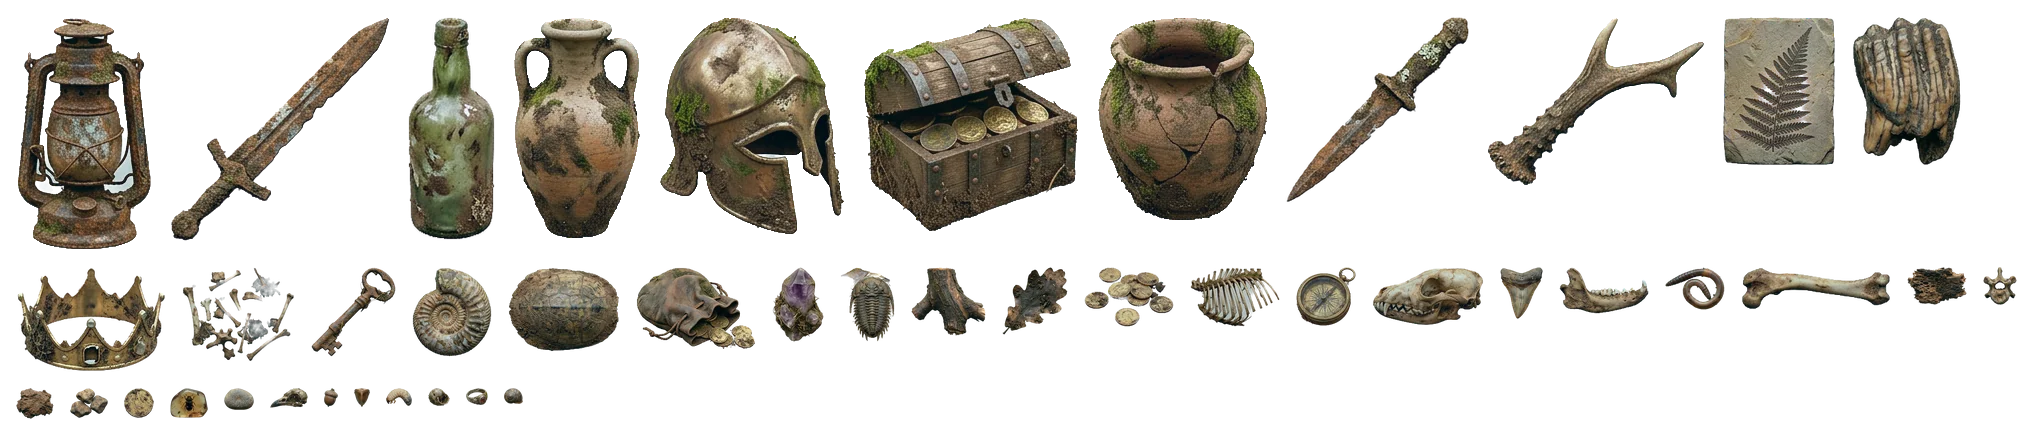
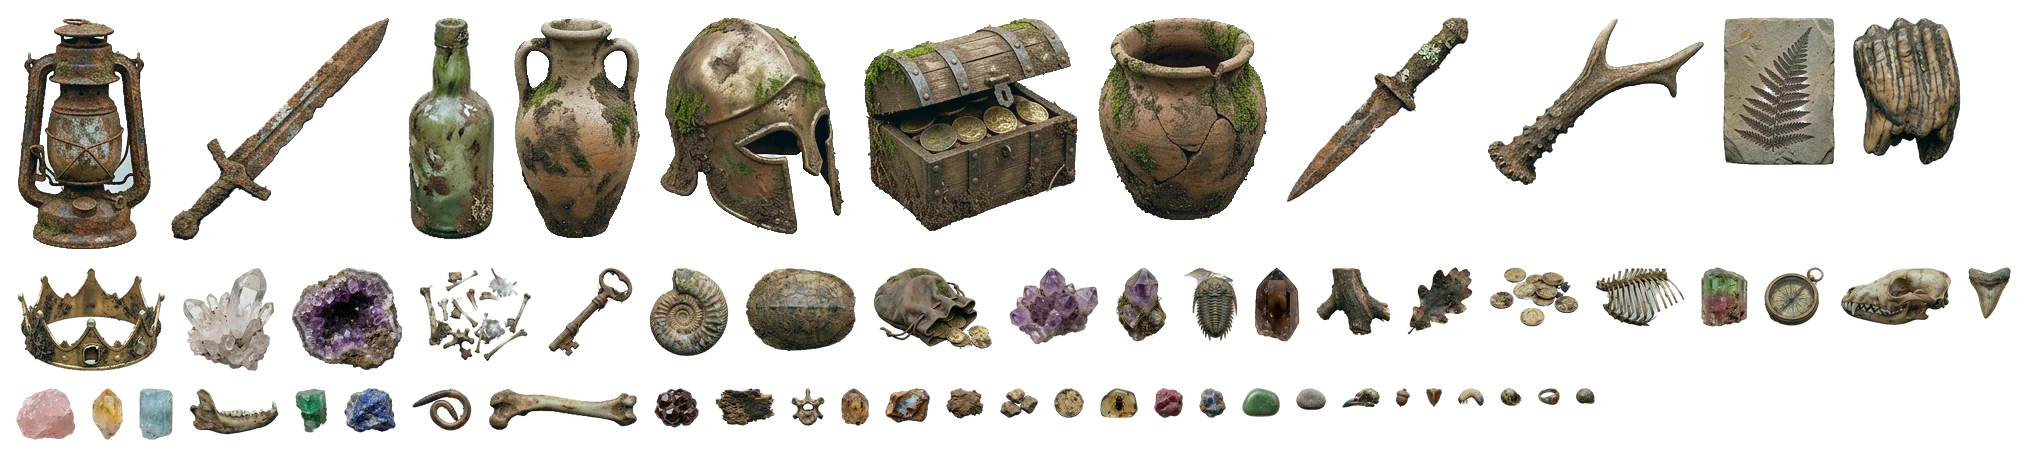
MYCELIUM_ gems: the crystals sheet joins the treasure, every gem as likely as any treasure piece, less stained and shaded so its colour shows deep down too, with an occasional glint

Changed region(s): [[0.0, 0.0298, 0.9941, 0.9839], [0.7145, 0.0298, 0.963, 0.4174]]

diff --git a/src/modes/mycelium/render.ts b/src/modes/mycelium/render.ts
@@ -11,7 +11,7 @@
 import { ATLASES } from './assets';
 import type { Assets, AtlasKey } from './assets';
 import { atlases, frames } from './assets/manifest.json';
-import { BURIED_MAX, TREASURE_MAX, isTreasure } from './buried';
+import { BURIED_MAX, TREASURE_MAX, isGem, isTreasure } from './buried';
 import type { Buried } from './buried';
 import { WORLD, heightAt, mixGround, mossAt, ridgeAt } from './ground';
 import type { Ground } from './ground';
@@ -80,8 +80,12 @@ const ZOOM = [0.5, 4] as const;
 /** a buried thing's quad reaches this many texels past its picture: room for its blurred shadow (the atlases leave
  * 16 texels between pictures, and the shadow's mip level reads about 4 further, so no neighbour bleeds in) */
 const PAD = 6;
-/** floats per buried vertex: position, uv, depth, the picture's rect in its atlas, the halo's reach */
-const BURIED_STRIDE = 10;
+/** floats per buried vertex: position, uv, depth, the picture's rect in its atlas, the halo's reach, gem or not */
+const BURIED_STRIDE = 11;
+/** how much soil stains a gem's picture (other things: fully), and how bright it is (other things: BURIED_DIM): its
+ * colour is the find, so it stands out of the soil a little, deep down too */
+const GEM_STAIN = 0.25;
+const GEM_LIGHT = 0.9;
 /** how dark a buried thing's shadow is, and how far below it it falls (view units: light comes from above) */
 const SHADOW = 0.55;
 const SHADOW_DROP = 3;
@@ -94,7 +98,7 @@ const HALO_DARK = 0.5;
 /** buried things lie out of the sun, in the soil's shade */
 const BURIED_DIM = 0.8;
 /** the passes of buried.frag */
-const PASS = { picture: 0, shadow: 1, halo: 2 } as const;
+const PASS = { picture: 0, shadow: 1, halo: 2, glint: 3 } as const;
 
 /** The air. Neutral daylight for now; the assets carry no mood of their own, so this is where it will change. */
 const AIR = {
@@ -329,7 +333,7 @@ export class ForestRenderer {
     gl.bufferData(gl.ELEMENT_ARRAY_BUFFER, new Uint16Array([...band, ...body]), gl.STATIC_DRAW);
     gl.bindVertexArray(null);
     // what lies buried: a quad per thing (two triangles), then one per treasure's halo; pos xy, uv, depth, the
-    // picture's rect in its atlas, how far the halo reaches (texels)
+    // picture's rect in its atlas, how far the halo reaches (texels), 1 for a gem (less stained; glints)
     this.buried = program(gl, BURIED_VS, BURIED_FS);
     this.buriedVao = gl.createVertexArray();
     this.buriedVbo = gl.createBuffer();
@@ -347,6 +351,8 @@ export class ForestRenderer {
     gl.vertexAttribPointer(3, 4, gl.FLOAT, false, BB, 20);
     gl.enableVertexAttribArray(4);
     gl.vertexAttribPointer(4, 1, gl.FLOAT, false, BB, 36);
+    gl.enableVertexAttribArray(5);
+    gl.vertexAttribPointer(5, 1, gl.FLOAT, false, BB, 40);
     // corners: top left, top right, bottom left, bottom right
     const quads = BURIED_MAX + TREASURE_MAX;
     const bidx = new Uint16Array(quads * 6);
@@ -573,6 +579,7 @@ export class ForestRenderer {
       v[o++] = (f.x + f.w) / A.w;
       v[o++] = (f.y + f.h) / A.h;
       v[o++] = reach;
+      v[o++] = isGem(b.frame) ? 1 : 0;
     }
     return o;
   }
@@ -708,16 +715,21 @@ export class ForestRenderer {
     gl.uniform2f(bu.u.uDrift!, ...g.drift);
     gl.uniform3f(bu.u.uTint!, ...AIR.tint);
     gl.uniform3f(bu.u.uDeep!, ...AIR.deep);
+    gl.uniform1f(bu.u.uGemStain!, GEM_STAIN);
+    gl.uniform1f(bu.u.uGemLight!, GEM_LIGHT);
+    gl.uniform1f(bu.u.uTime!, this.time);
     gl.activeTexture(gl.TEXTURE0);
     gl.uniform1i(bu.u.uAtlas!, 0);
     gl.bindVertexArray(this.buriedVao);
-    // halos first, then every shadow, then the pictures: the things' quads per atlas, then the halos' per atlas
+    // halos first, then every shadow, then the pictures, then the gems' glints (on the halo quads, room for their
+    // rays; none with reduced motion): the things' quads per atlas, then the halos' per atlas
     const things = this.buriedCount.reduce((s, n) => s + n, 0);
-    const passes = [
+    const passes: [number, number, number[], number][] = [
       [PASS.halo, HALO_DARK, this.haloCount, things],
       [PASS.shadow, SHADOW, this.buriedCount, 0],
       [PASS.picture, 0, this.buriedCount, 0],
-    ] as const;
+    ];
+    if (!this.gentle) passes.push([PASS.glint, 0, this.haloCount, things]);
     for (const [pass, dark, counts, start] of passes) {
       gl.uniform1i(bu.u.uPass!, pass);
       gl.uniform1f(bu.u.uDark!, dark);
@@ -757,7 +769,12 @@ export class ForestRenderer {
       { name: 'ridge.frag · moss body', color: WIRE_COLOR.body, tris: quads * 2 },
       { name: 'ground.frag · strip', color: WIRE_COLOR.strip, tris: quads * 2 },
       { name: 'ground.frag · soil', color: WIRE_COLOR.soil, tris: quads * 2 },
-      { name: 'buried.frag · treasure halos', color: WIRE_COLOR.halo, tris: this.haloCount.reduce((s, n) => s + n, 0) * 2 },
+      // drawn twice unless motion is reduced: halo, then the gems' glints
+      {
+        name: 'buried.frag · halos, glints',
+        color: WIRE_COLOR.halo,
+        tris: this.haloCount.reduce((s, n) => s + n, 0) * (this.gentle ? 2 : 4),
+      },
       // drawn twice: shadow, then picture
       { name: 'buried.frag · treasure, stones', color: WIRE_COLOR.buried, tris: this.buriedCount.reduce((s, n) => s + n, 0) * 4 },
       { name: 'post.frag · full-screen', color: WIRE_COLOR.post, tris: 1 },

diff --git a/src/modes/mycelium/buried.ts b/src/modes/mycelium/buried.ts
@@ -1,6 +1,7 @@
-// What lies buried under MYCELIUM_'s forest floor, read from the text: treasure (a chest, coins, pots, a sword…) and
-// stones, scattered through the soil horizons. Pure and DOM-free. Sizes come from the library's manifest (view units
-// per texel), so a chest stays a chest and a pebble a pebble; nothing overlaps, nothing pokes up into the moss.
+// What lies buried under MYCELIUM_'s forest floor, read from the text: treasure (a chest, coins, pots, a sword…, raw
+// gems) and stones, scattered through the soil horizons. Pure and DOM-free. Sizes come from the library's manifest
+// (view units per texel), so a chest stays a chest and a pebble a pebble; nothing overlaps, nothing pokes up into
+// the moss.
 import { frames } from './assets/manifest.json';
 
 export type BuriedFrame = keyof typeof frames;
@@ -17,8 +18,10 @@ export interface Buried {
   flip: boolean;
 }
 
-/** the treasure sheet, every one of them (a chest, coins, pots, an amphora, a sword, a dagger, a ring, a key…) */
-const TREASURE = Array.from({ length: 16 }, (_, i) => `treasure/${String(i).padStart(2, '0')}` as BuriedFrame);
+const sheet = (name: string) => Array.from({ length: 16 }, (_, i) => `${name}/${String(i).padStart(2, '0')}` as BuriedFrame);
+/** treasure: the treasure sheet (a chest, coins, pots, an amphora, a sword, a dagger, a ring, a key…) and the crystals
+ * sheet (raw gems: an amethyst geode, a ruby, an emerald, quartz, lapis…), each piece as likely as any other */
+const TREASURE = [...sheet('treasure'), ...sheet('crystals')];
 /** bare stones only: the ones with moss caps or lichen grew in the light (stones 05, 06, 09), plus the soil's pebbles */
 const STONES: BuriedFrame[] = [
   'stones/00',
@@ -72,7 +75,7 @@ export function readBuried(r: () => number, bands: readonly [number, number, num
     return true;
   };
 
-  // a shuffled pick of the treasure sheet: each piece at most once
+  // a shuffled pick of the treasure: each piece at most once
   const pick = [...TREASURE];
   for (let i = pick.length - 1; i > 0; i--) {
     const j = Math.floor(r() * (i + 1));
@@ -94,6 +97,12 @@ export function readBuried(r: () => number, bands: readonly [number, number, num
   return out;
 }
 
+/** treasure and gems: what gets a halo of disturbed earth */
 export function isTreasure(frame: BuriedFrame): boolean {
-  return frame.startsWith('treasure/');
+  return frame.startsWith('treasure/') || isGem(frame);
+}
+
+/** gems keep their colour (the soil stains and shades them less) and now and then glint */
+export function isGem(frame: BuriedFrame): boolean {
+  return frame.startsWith('crystals/');
 }

diff --git a/CLAUDE.md b/CLAUDE.md
@@ -37,7 +37,7 @@ that is a normal shutdown, not a crash; nothing to fix. Port 5173 is often taken
 - `src/modes/keymash/` — `vm.ts` (the interpreter: `VM.tick()` returns timed `VMEvent`s), `types.ts` (`VMEvent` union, ops, shapes), `powers.ts` (emoji → op), `Player` (VM on the audio clock, 0.12 s lookahead) + `Renderer` (canvas 2D, world coords ±hw/±hh with `s` px per unit, `handle(VMEvent)`, `frame(dt, level, bass)`).
 - `src/modes/petri/` — `genome.ts` (`readCulture`, `kindOf()`), `hybrid.ts` (`hybridise()`: a meal's gene transfer into a new genome with `parents`; `genomeDistance()`), `culture.ts` (`Petri`: feeder + `World`, fixed 30 Hz steps), `sim.ts` (`World`, `DISH_R = 420`; `takeUp()` on engulfing and on eating debris, which keeps its cell's `sp`. `SPECIATION` switches how hybrids arise: `'meal'` (on) founds a species per transfer; `'drift'` keeps the genome a variant (`Species.variantOf`) until `SPLIT_DRIFT`; identity — counts, census, kin, extinction — goes through `kindOf(sp)`, traits through `sp`), `render.ts` (`MicroRenderer`: `cx/cy/R/k` camera, `frame(dt, world, activity)`; the water is a small canvas stretched over the dish, vignette + rim are cached per dish size, repeated strokes go into one path), `ambient.ts` (music). The simulation costs microseconds per frame; drawing pixels is what costs.
 - `src/modes/cookie/` — pure and DOM-free: `recipe.ts` (`readRecipe`, `recipeKey`), `shapes.ts` (cutter SDFs, `anchors`, `Field`: one cookie's footprint/bites/piping as a 128² distance tile), `bakery.ts` (`Bakery`: stage timeline → `Look`, `swap`, `bite`, idle nibbling, crumbs, `again()` once `done`; emits `BakeEvent`s). Drawing: `gl.ts` (WebGL2 helpers), `shader.ts` (the raymarched scene, crumbs, motes, the blit with heat haze and tilt-shift), `render.ts` (`CookieRenderer`: `frame(dt, bakery, level)`, `ray()` for taps, a scene target that steps down when frames are slow). `music.ts` (`Jingle`: a band per dough). The player adds its own `<canvas class="stage3d">` after `#stage` (WebGL needs a canvas without a 2D context) and hides it in `stop()`. Shader tuning: look at frames (`bun scripts/sheet.ts`), headless Chromium renders it with SwiftShader; for GPU timings launch it with `--use-angle=metal --enable-gpu` (macOS: the real GPU).
-- `src/modes/mycelium/` — `ground.ts` (pure: `readGround(src)` → the curve's swells and mounds, soil horizon depths, noise drift, the moss hill behind (`ridgeAt`: big elliptic moss cushions every `RIDGE_SPACING`, each top `RIDGE_RISE` over the floor, one smaller, lower cushion in every gap, joined by a smooth maximum over a base sunk under the floor), what lies buried; `heightAt`, `mixGround` for easing edits), `buried.ts` (pure: `readBuried()` → treasures and bare stones as manifest frames at x + depth below the floor, sized by the manifest's `s`, never overlapping (`reach`), at most `BURIED_MAX` / `TREASURE_MAX`), `assets.ts` (`fetchAssets()`: only the textures and atlases the scene uses, byte progress, decoded premultiplied; started when `mode.ts` loads), `assets/` (the forest library copied from `scripts/forest/samples/pack`, as pack.py wrote it; ignored by oxfmt; new textures come from `scripts/forest/12-library.ts` + `matte/pack.py`), `gl.ts` (WebGL2 helpers), `render.ts` (`ForestRenderer`: 2D camera `cam` + `zoom`, `pan`, `zoomAt`; layers sky → ridge (moss hill: band + moss body) → ground → buried (treasure halos, shadows, pictures; a draw per atlas) → post into a budget-sized target; `wire` draws every draw's edges coloured per shader/material, `wireLegend()` — a new layer adds its colour there), `shaders/` (one GLSL piece per file, imported `?raw`, assembled in `shaders/index.ts`: `noise`, `camera`, `blend` (height blend), `hex` (hex tiling), `soil` (horizons), `mossfill` (hex-tiled moss carpets), `strip` (a ground strip in 1D Voronoi cells, no mirror axes; `uCellSeed` per layer), then each stage's `main()`; `wire.*` for the debug wireframe), `player.ts` (drag/scroll pans, pinch/ctrl+scroll zooms; in dev builds a grid corner button toggles the wireframe). No language and no cheat-sheet cards yet. A new text needn't transition smoothly: the forest will later drop away and be recreated per text, so don't spend effort on smooth changes between texts.
+- `src/modes/mycelium/` — `ground.ts` (pure: `readGround(src)` → the curve's swells and mounds, soil horizon depths, noise drift, the moss hill behind (`ridgeAt`: big elliptic moss cushions every `RIDGE_SPACING`, each top `RIDGE_RISE` over the floor, one smaller, lower cushion in every gap, joined by a smooth maximum over a base sunk under the floor), what lies buried; `heightAt`, `mixGround` for easing edits), `buried.ts` (pure: `readBuried()` → treasures (the treasure and crystals sheets, gems as likely as any piece) and bare stones as manifest frames at x + depth below the floor, sized by the manifest's `s`, never overlapping (`reach`), at most `BURIED_MAX` / `TREASURE_MAX`), `assets.ts` (`fetchAssets()`: only the textures and atlases the scene uses, byte progress, decoded premultiplied; started when `mode.ts` loads), `assets/` (the forest library copied from `scripts/forest/samples/pack`, as pack.py wrote it; ignored by oxfmt; new textures come from `scripts/forest/12-library.ts` + `matte/pack.py`), `gl.ts` (WebGL2 helpers), `render.ts` (`ForestRenderer`: 2D camera `cam` + `zoom`, `pan`, `zoomAt`; layers sky → ridge (moss hill: band + moss body) → ground → buried (treasure halos, shadows, pictures, gem glints; a draw per atlas and pass) → post into a budget-sized target; `wire` draws every draw's edges coloured per shader/material, `wireLegend()` — a new layer adds its colour there), `shaders/` (one GLSL piece per file, imported `?raw`, assembled in `shaders/index.ts`: `noise`, `camera`, `blend` (height blend), `hex` (hex tiling), `soil` (horizons), `mossfill` (hex-tiled moss carpets), `strip` (a ground strip in 1D Voronoi cells, no mirror axes; `uCellSeed` per layer), then each stage's `main()`; `wire.*` for the debug wireframe), `player.ts` (drag/scroll pans, pinch/ctrl+scroll zooms; in dev builds a grid corner button toggles the wireframe). No language and no cheat-sheet cards yet. A new text needn't transition smoothly: the forest will later drop away and be recreated per text, so don't spend effort on smooth changes between texts.
 - `src/modes/<id>/sheet.ts` — `SHEET` (the cheat sheet behind the book button: a one-sentence intro + exactly 12 `SheetCard`s per mode — the grid in `card.css.ts` uses 2/3/4/6 columns so rows stay full, 6 × 2 on desktop — with snippet, short name — no explanations, the user wants it terse —, capture time `at`, camera `zoom`; one-line snippets only); pictures in `sheet/<card>.webp`, loaded via `import.meta.glob` (URLs; the files load lazily when the sheet opens). `src/modes/<id>/README.md` — the mode's language reference.
 - `src/lang/` — shared by every mode, pure and DOM-free: `lexer.ts` (syntax only: graphemes, words, numbers, runs, quotes, math; meaning is per mode), `keys.ts` (QWERTZ geometry), `rng.ts` (seeded hash + PRNG).
 - `src/engine/sound.ts` — the `Sound` vocabulary (`note`/`drum`/`sfx`/`dtmf`, instruments, sfx kinds); `src/engine/audio.ts` — the shared WebAudio engine (`play(Panned)`), speech, typing sounds. Neither knows any mode.

diff --git a/src/modes/mycelium/README.md b/src/modes/mycelium/README.md
@@ -19,14 +19,16 @@ The whole text seeds the ground. The same text always gives the same ground; any
   0.8 m wide; between every two a smaller one (0.35–0.55 m, 20–50 units over the floor), so the hill never runs
   flat. Where cushions meet they nestle with a soft crease (a smooth maximum, not a sum: no dips on top). Together
   they show over the floor along about three quarters of it.
-- **What lies buried**: 6–9 treasures, each a different one off the library's treasure sheet (a chest of coins, pots,
-  an amphora, a sword, a helmet, a crown, a lantern…), well apart, shallow ones likelier so a few show from where the
-  camera starts; and about 150 bare stones and pebbles (the library's stones without moss or lichen, its soil
-  pebbles), sparse in the humus and gathering in the stony horizon. All at their library sizes (a pebble 4 cm, a
-  stone up to 15 cm, the chest 70 cm), a little larger or smaller, turned a little, mirrored half the time. None
-  overlaps another, none reaches up closer than 40 cm under the floor (below the moss), none leaves the world.
-  They sit at a depth below the floor, so they ride along when an edit eases the floor; the things themselves are
-  swapped for the new text's at once.
+- **What lies buried**: 6–9 treasures, each a different one off the library's treasure and crystals sheets, every piece
+  as likely as any other (a chest of coins, pots, an amphora, a sword, a helmet, a crown, a lantern…; raw gems: an
+  amethyst geode, a ruby, an emerald, quartz, opal, lapis…, so about half the finds are gems), well apart, shallow
+  ones likelier so a few show from where the camera starts; and about 150 bare stones and pebbles (the library's
+  stones without moss or lichen, its soil pebbles), sparse in the humus and gathering in the stony horizon. All at
+  their library sizes (a pebble 4 cm, a stone up to 15 cm, a gem 4–15 cm, the chest 70 cm), a little larger or
+  smaller, turned a little, mirrored half the time. None overlaps another, none reaches up closer than 40 cm under
+  the floor (below the moss), none leaves the world. They sit at a depth below the floor, so they ride along when an
+  edit eases the floor; the things themselves are swapped for the new text's at once. Now and then a gem glints: a
+  short twinkle on a bright spot of it, a few seconds apart and most chances skipped (none with reduced motion).
 
 Editing while it runs eases the old ground into the new one (about half a second; at once with reduced motion).
 
@@ -47,7 +49,7 @@ Each frame draws into a target sized by the pixel budget (`src/ui/budget.ts`), t
 | sky | the air behind everything: haze toward the floor, a soft light, slow mist; a placeholder until the backdrop comes | `screen.vert`, `sky.frag` |
 | ridge | a mossy hill behind the floor, same distance (no parallax), on its own waves: the moss band of a second strip (`tex-ground-c.webp`: star moss, lichen, clover) for its outline, a hex-tiled moss carpet (`tex-moss-*.webp`) for its body, a little darker | `ridge.vert`, `ridge.frag` with `strip.glsl`, `mossfill.glsl` |
 | ground | one mesh: per column the strip's top on the curve, its bottom along the curve's normal (blended with straight down, so steep bits don't fold), the bottom of the world | `ground.vert`, `ground.frag` with `strip.glsl`, `soil.glsl` |
-| buried | treasure and stones: a quad each from the library's atlases (`atlas-underground-0`, `atlas-ground-0`), in three passes: a halo of damp, disturbed earth around each treasure in its own shape (its alpha tapped over a disc of 48 taps reaching about a third of its narrow side plus 4 cm, so a sword gets a long narrow halo and a pot a round one; ragged by noise, the soil's colour darkened rather than black, at 40 % strength in the light upper soil rising to full deep down, fading out before the moss), a soft shadow under each thing (its alpha at a fixed mip level, dropped 3 units), then the picture: stained toward the soil's colour, earth clinging in blotches, in the soil's shade and darker with depth like it | `buried.vert`, `buried.frag` |
+| buried | treasure and stones: a quad each from the library's atlases (`atlas-underground-0`, `atlas-ground-0`), in four passes: a halo of damp, disturbed earth around each treasure in its own shape (its alpha tapped over a disc of 48 taps reaching about a third of its narrow side plus 4 cm, so a sword gets a long narrow halo and a pot a round one; ragged by noise, the soil's colour darkened rather than black, at 40 % strength in the light upper soil rising to full deep down, fading out before the moss), a soft shadow under each thing (its alpha at a fixed mip level, dropped 3 units), then the picture: stained toward the soil's colour, earth clinging in blotches, in the soil's shade and darker with depth like it (gems stained a quarter as much, a little less shaded, darkening half as much: their colour is the find), then the gems' glints (a four-pointed star on a bright texel of the gem, its rays growing and fading over half a second, added over the picture on the halo quads, which leave the rays room) | `buried.vert`, `buried.frag` |
 | post | a gentle contrast curve, vignette, film grain | `post.frag` |
 
 - **The strip** (`assets/tex-ground.webp`, moss over soil) is laid along the curve by arc length, 335 view units per
